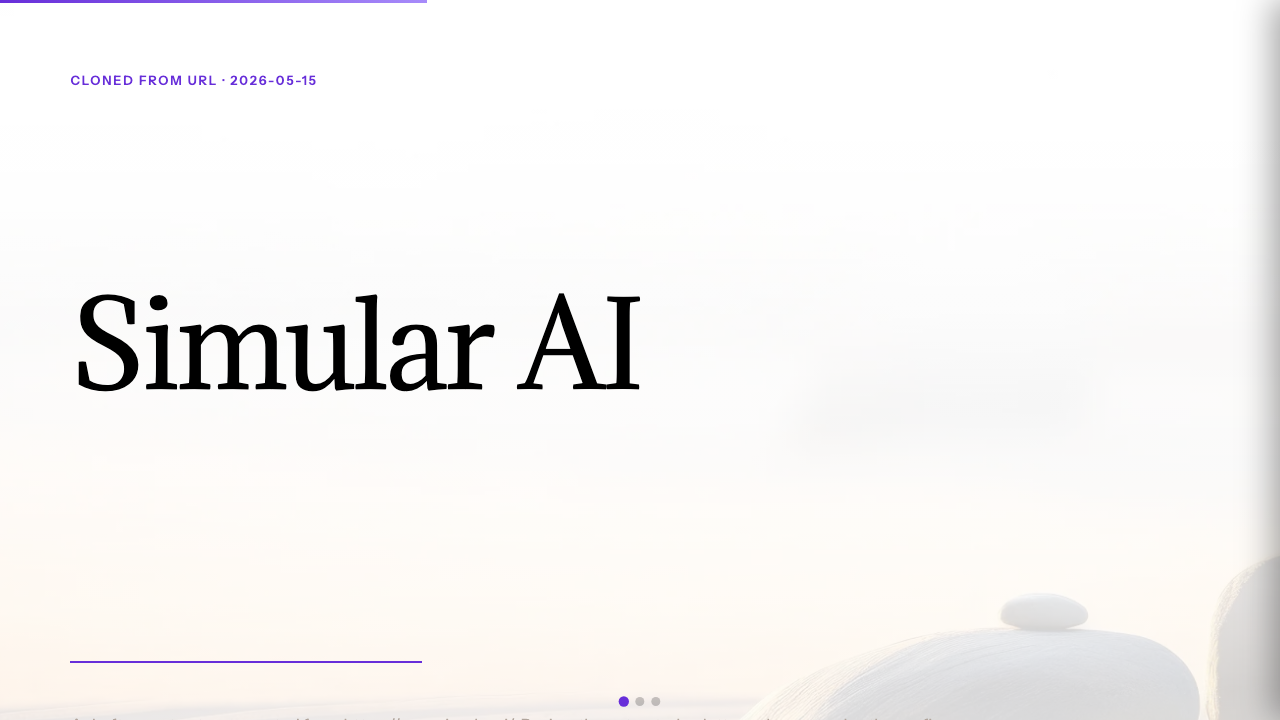
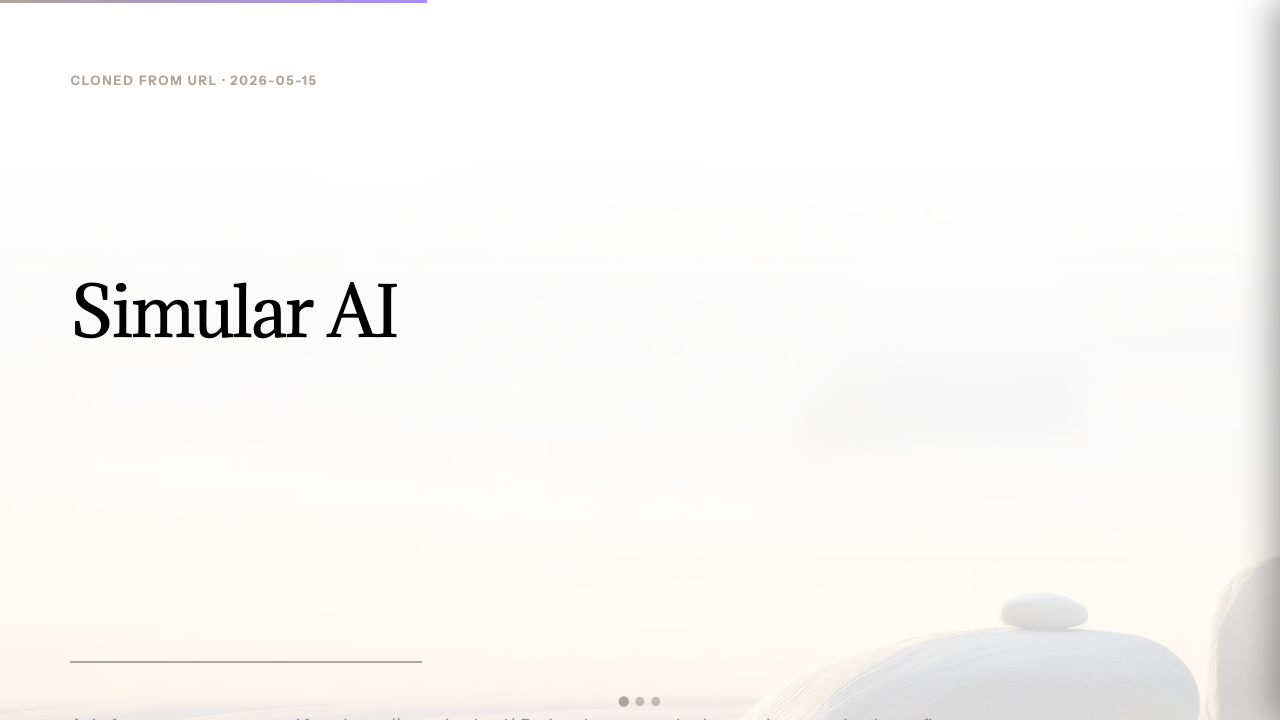
Fix font size + accent picking based on simular.ai visual review
User feedback: H1 was 1.7× too large; purple #672ED9 picked as accent
even though it never appears in the rendered hero (just exists in CSS).

Two fixes:

1. H1 clamp() driven by extracted size — new _h1_clamp() helper turns the
   CDP-computed font-size into clamp(0.7×, vw-at-1280, 1.05×) so the
   draft slide renders at roughly the source's actual title size.
   Example: simular.ai h1 = 66.08px → clamp(46px, 5.16vw, 69px), instead
   of the previous default clamp(56px, 9vw, 140px) that rendered at 115px.

2. Weight-aware accent picking — classify_palette() now requires a
   chromatic candidate to have ≥1% share of the merged palette weight
   (CSS + image-sampled + CDP). On image-led / restrained pages this
   demotes saturated CSS-only colors (like simular.ai's #672ED9 hover
   state) to extras and picks the visually-present muted tone instead.
   Example: simular.ai accent now #B0A49B (sandy gray) — matches the
   actual neutral hero aesthetic.

Changed region(s): [[0.0625, 0.3972, 0.5, 0.55], [0.0, 0.0, 0.25, 0.0306], [0.0625, 0.0917, 0.25, 0.1222]]

diff --git a/presets/simular-ai/template.html b/presets/simular-ai/template.html
@@ -169,8 +169,8 @@ img, .image-container {
 :root {
   --uc-paper: #FDFDFD;
   --uc-ink:   #000000;
-  --uc-accent: #672ED9;
-  --uc-muted:  #B0A49B;
+  --uc-accent: #B0A49B;
+  --uc-muted:  #8B8B8B;
 
   --font-display: 'Adamina', system-ui, sans-serif;
   --font-body:    'Instrument Sans', system-ui, sans-serif;
@@ -183,7 +183,7 @@ img, .image-container {
   --deck-chrome-border:  rgba(0,0,0,0.18);
   --deck-chrome-text:    #0a0a0a;
   --deck-chrome-muted:   #5a5a5a;
-  --deck-chrome-accent:  #672ED9;
+  --deck-chrome-accent:  #B0A49B;
   --deck-chrome-shadow:  0 8px 24px rgba(0,0,0,0.15);
   --deck-chrome-surface: rgba(245,245,245,0.96);
 }
@@ -204,7 +204,7 @@ body { margin: 0; font-family: var(--font-body); background: var(--uc-paper); co
 .uc-h1 {
   font-family: var(--font-display);
   font-weight: 400;
-  font-size: clamp(56px, 9vw, 140px);
+  font-size: clamp(46px, 5.16vw, 69px);
   line-height: 92.512px;
   letter-spacing: -0.02em;
   text-transform: none;

diff --git a/scripts/extract_style_from_url.py b/scripts/extract_style_from_url.py
@@ -153,26 +153,42 @@ def cluster_colors(counts: Counter, min_distance: int = 32):
 
 
 def classify_palette(clustered):
-    """Return dict of named tokens: paper / ink / accent / muted / extras."""
+    """Return dict of named tokens: paper / ink / accent / muted / extras.
+
+    Accent picking is **weight-aware**: a chromatic color must have visible
+    presence (≥ 1% of total clustered weight) to qualify. Otherwise the page
+    is judged neutral / image-led and accent falls back to the most visible
+    non-paper, non-ink tone.
+    """
     if not clustered:
         return {'paper': (250, 250, 245), 'ink': (20, 20, 20), 'accent': (220, 60, 60)}
 
+    total_weight = sum(w for _, w in clustered) or 1
     by_lum = sorted(clustered, key=lambda x: luminance(x[0]))
-    by_sat = sorted(clustered, key=lambda x: saturation(x[0]), reverse=True)
 
     paper = by_lum[-1][0]   # lightest
     ink = by_lum[0][0]      # darkest
 
-    # Accent: most saturated that isn't paper or ink and is at least mid-saturated
+    # Filter out paper / ink, score candidates by saturation × visual-weight share.
+    candidates = [(rgb, w) for rgb, w in clustered if rgb != paper and rgb != ink]
+
+    chromatic = [(rgb, w) for rgb, w in candidates if saturation(rgb) >= 0.3]
     accent = None
-    for rgb, _ in by_sat:
-        if rgb == paper or rgb == ink:
-            continue
-        if saturation(rgb) > 0.3:
-            accent = rgb
-            break
-    if accent is None and len(by_sat) > 0:
-        accent = by_sat[0][0]
+    if chromatic:
+        # Sort by sat × sqrt(weight) so saturation matters but weight tiebreaks
+        chromatic.sort(key=lambda x: saturation(x[0]) * ((x[1] / total_weight) ** 0.5), reverse=True)
+        top_rgb, top_w = chromatic[0]
+        share = top_w / total_weight
+        # Only use as accent if it has at least 1% visual presence in the merged palette
+        if share >= 0.01:
+            accent = top_rgb
+
+    # Fallback: most prominent non-paper, non-ink tone (often a warm/neutral muted)
+    if accent is None and candidates:
+        candidates.sort(key=lambda x: x[1], reverse=True)
+        accent = candidates[0][0]
+    if accent is None:
+        accent = (220, 60, 60)
 
     # Muted: mid-luminance, lower saturation
     muted = None
@@ -833,6 +849,30 @@ def image_palette_from_screenshot(snapshot_path: Path, n_colors: int = 8):
 
 # ─── Template synthesis ───────────────────────────────────────────────────────
 
+def _h1_clamp(raw_size: str) -> str:
+    """Derive a clamp() font-size from the extracted h1 value.
+
+    `raw_size` examples:
+      '66.08px' (CDP computed value) → clamp(46px, 5.16vw, 70px)
+      '48px !important' (CSS regex)  → clamp(34px, 3.75vw, 50px)
+      '3rem'                          → clamp(34px, 3.75vw, 50px)
+      missing / unparseable           → clamp(56px, 9vw, 140px)
+    """
+    default = 'clamp(56px, 9vw, 140px)'
+    if not raw_size:
+        return default
+    cleaned = raw_size.replace('!important', '').strip()
+    px = _parse_font_size_px(cleaned)
+    if px <= 0:
+        return default
+    # Target px = the source's rendered size at 1280 viewport.
+    # Lower bound is ~70% of target for mobile, upper bound is ~5% over target.
+    min_px = max(16, int(px * 0.70))
+    max_px = int(px * 1.05)
+    vw = round(px / 12.8, 2)  # at 1280 viewport, this vw == px
+    return f'clamp({min_px}px, {vw}vw, {max_px}px)'
+
+
 def synth_theme_css(palette, fonts_link, display, body, h1_props=None):
     paper = rgb_to_hex(palette['paper'])
     ink = rgb_to_hex(palette['ink'])
@@ -900,7 +940,7 @@ body {{ margin: 0; font-family: var(--font-body); background: var(--uc-paper); c
 .uc-h1 {{
   font-family: var(--font-display);
   font-weight: {h1_props.get('font-weight', '700')};
-  font-size: clamp(56px, 9vw, 140px);
+  font-size: {_h1_clamp(h1_props.get('font-size'))};
   line-height: {h1_props.get('line-height', '0.95')};
   letter-spacing: {h1_props.get('letter-spacing', '-0.02em')};
   text-transform: {h1_props.get('text-transform', 'none')};

diff --git a/presets/simular-ai/preset.md b/presets/simular-ai/preset.md
@@ -1,6 +1,6 @@
 # Simular AI
 
-**Vibe (auto-detected — review):** bold, editorial, elegant
+**Vibe (auto-detected — review):** editorial, elegant
 
 **Layout:** Auto-generated draft from a URL clone. Three placeholder slides (title cover, three-point content, closing) using the extracted palette and typography. Review and refine the layout to match the source aesthetic.
 
@@ -13,11 +13,11 @@
 :root {
   --paper: #FDFDFD;
   --ink: #000000;
-  --accent: #672ED9;
-  --muted: #B0A49B;
+  --accent: #B0A49B;
+  --muted: #8B8B8B;
   --extra-1: #423D3B;
   --extra-2: #F2E0CC;
-  --extra-3: #8B8B8B;
+  --extra-3: #111C34;
 }
 ```
 
